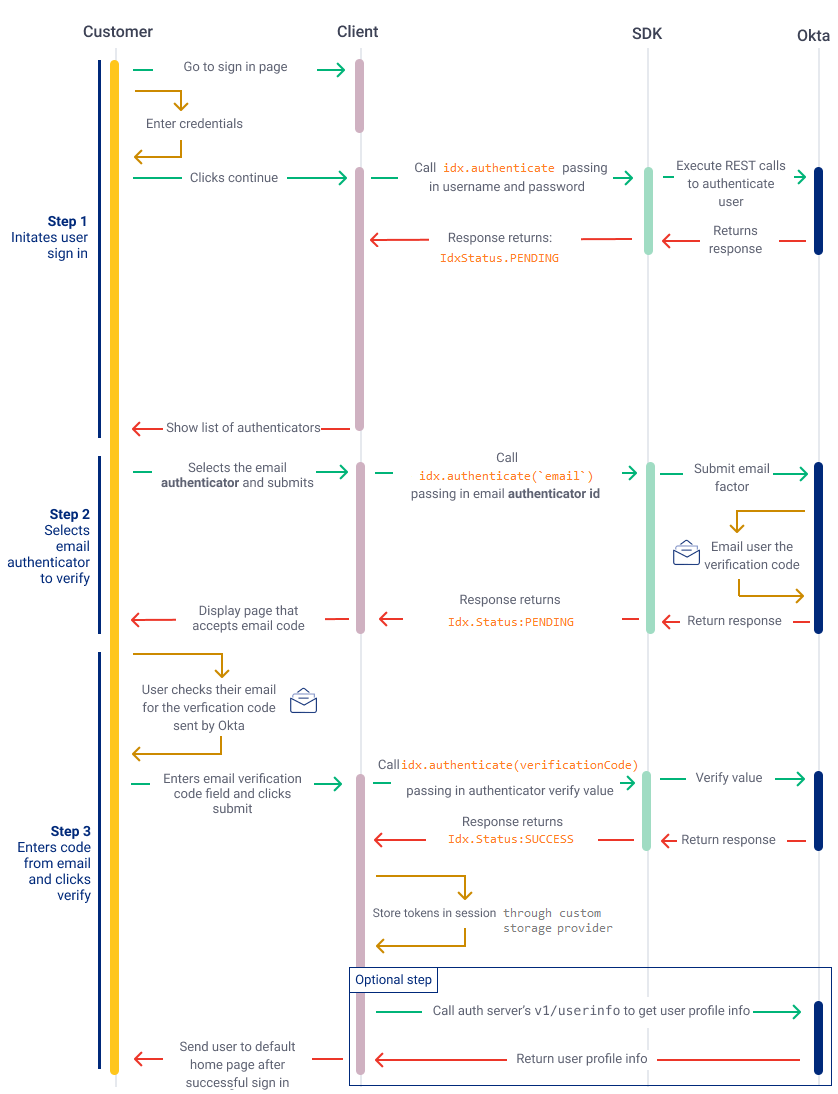
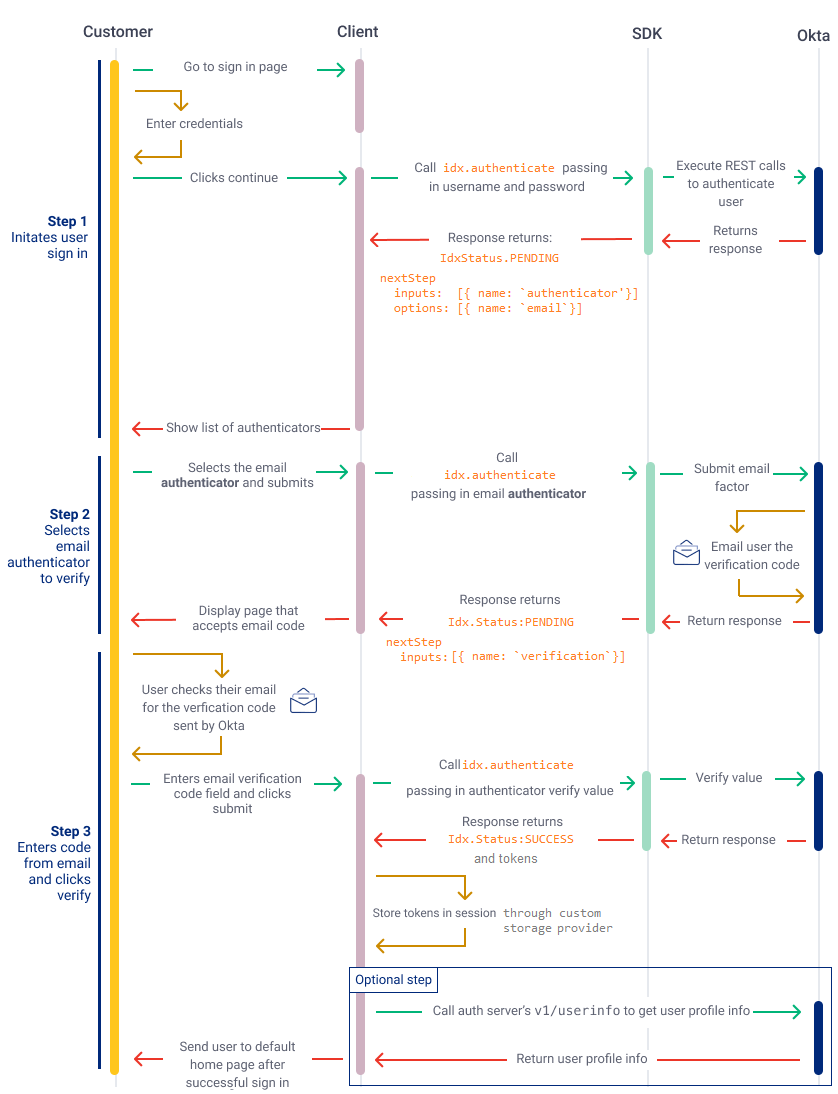
Update image and content as per Shuo review

diff --git a/packages/@okta/vuepress-site/docs/guides/oie-embedded-sdk-use-cases/oie-embedded-sdk-use-case-sign-in-pwd-email/nodejs/integrationsteps.md b/packages/@okta/vuepress-site/docs/guides/oie-embedded-sdk-use-cases/oie-embedded-sdk-use-case-sign-in-pwd-email/nodejs/integrationsteps.md
@@ -1,4 +1,4 @@
-### Step 1: Build a sign-in page on the client
+### Step 1: Build a sign-in page on the client and authenticate user credentials
 
 Build a sign-in page that captures both the user’s name and
 password. An example is shown below:
@@ -10,17 +10,21 @@ password. An example is shown below:
 
 </div>
 
-### Step 2: Authenticate user credentials
+When the user initiates the sign-in process, your app needs to create a new `OktaAuth` object and set its `username` and `password` properties to the values entered by the user. Send this object to the `idx.authenticate` method to start the authentication process. See [idx.Authenticate](https://github.com/okta/okta-auth-js/blob/master/docs/idx.md#idxauthenticate) for more information. This call begins the multi-factor authentication flow. 
 
-When the user initiates the sign-in process, your app needs to create a new `OktaAuth` object and set its `username` and `password` properties to the values entered by the user. Send this object to the `idx.authenticate` method to start the authentication process. See [idx.Authenticate](https://github.com/okta/okta-auth-js/blob/master/docs/idx.md#idxauthenticate) for more information. This call begins the multi-factor authentication flow and returns a status of `Idx.Status:PENDING`.
+If the username and password are valid, `idx.authenticate` should return a status of `Idx.Status:PENDING`. This status indicates that an additional factor needs to be verified before the sign in. In addition to the status, the `nextStep` field, included in the response, identifies the input parameters of the next step, in this case an authenticator of type email:
 
-### Step 3: Handle the response from the sign-in
-
-If the username and password are valid, `idx.authenticate` should return an `Idx.Status` of `PENDING`. This status indicates that an additional factor needs to be verified before the sign in. In addition to the status, the `nextSteps` property should return the **email** factor (`type`).
+```JavaScript
+ status, // IdxStatus.PENDING
+  nextStep: {
+    inputs, // [{ name: 'authenticator', ... }]
+    options // [{ name: 'email', ... }, ...]
+  }
+```
 
 The user should be redirected to an authenticator list page that displays the email factor as an authenticator to be verified.
 
-### Step 4: Show email factor in authenticator list
+### Step 2: Show email factor in authenticator list
 
 The next step is to show the email factor to the user in an authenticator list page. If not already done, this page needs to be built and display the list of authenticators from the previous step. In this use case, only the **email** factor is displayed, as shown in the following sample.
 
@@ -31,13 +35,20 @@ The next step is to show the email factor to the user in an authenticator list p
 
 </div>
 
-### Step 5: Call idx.authenticate(email)
+When the user selects the **email** factor, call `idx.authenticate` and pass in the authentication email authentication type, `({ authenticator: 'email' })`. With this call, Okta sends a verification code to the user's email.
 
-When the user selects the **email** factor, call `idx.authenticate` and pass in the authentication type '`('email')`. This call sends a verification code to the user's email.
+If the call is successful, the method should return a status of `Idx.Status:PENDING`, which indicates that the SDK is ready for the verification code. The `nextStep` field identifies the input parameter of the next step, in this case a verification code:
 
-If the call is successful, the method should return an `Idx.Status` of `PENDING`, which indicates that the SDK is ready for the verification code. The next step is to redirect the user to the email verification code page.
+```JavaScript
+status, // IdxStatus.PENDING
+  nextStep: {
+    inputs // [{ name: 'verificationCode', ... }]
+  }
+```
 
-### Step 6: Show email verification code page
+The next step is to redirect the user to the email verification code page.
+
+### Step 3: Show email verification code page
 
 If not already done, build the email verification code page that accepts the code from the email.
 
@@ -48,14 +59,8 @@ If not already done, build the email verification code page that accepts the cod
 
 </div>
 
-### Step 7: Call idx.authenticate(verificationCode)
+The next step is to call `idx.authenticate` and pass in the email verification code `({ verificationCode: 'xxx' })`. The next step is to handle the response from the call. If the email code was valid, the method should return a status of `Idx.Status:SUCCESS` and tokens. This status signifies that there are no more factors waiting to be enrolled and verified. If the steps described in [Set up your Okta org (for multi-factor use cases)](/docs/guides/oie-embedded-common-org-setup/aspnet/main/#set-up-your-okta-org-for-multifactor-use-cases) were properly followed, the user has successfully signed in and should be sent to the default sign-in home page.
 
-The next step is to call `idx.authenticate(verificationCode)`. In the email verification use case, the code passed into the method will be the code found in the verification email.
-
-### Step 8: Handle response from idx.authenticate
-
-The next step is to handle the response from `idx.authenticate(verificationCode)`. If the email code was valid, the method should return an `Idx.Status` of `SUCCESS`. This status signifies that there are no more factors waiting to be enrolled and verified. If the steps described in [Set up your Okta org (for multi-factor use cases)](/docs/guides/oie-embedded-common-org-setup/aspnet/main/#set-up-your-okta-org-for-multifactor-use-cases) were properly followed, the user has successfully signed in and should be sent to the default sign-in home page.
-
-### Step 9: Get user profile information (optional)
+#### Get user profile information (optional)
 
 Optionally, you can obtain basic user information after a successful sign-in by making a request to Okta's Open ID Connect authorization server. See [Get user profile information after sign in](/docs/guides/oie-embedded-sdk-alternate-flows/nodejs/main/#get-user-profile-information-after-sign-in).
